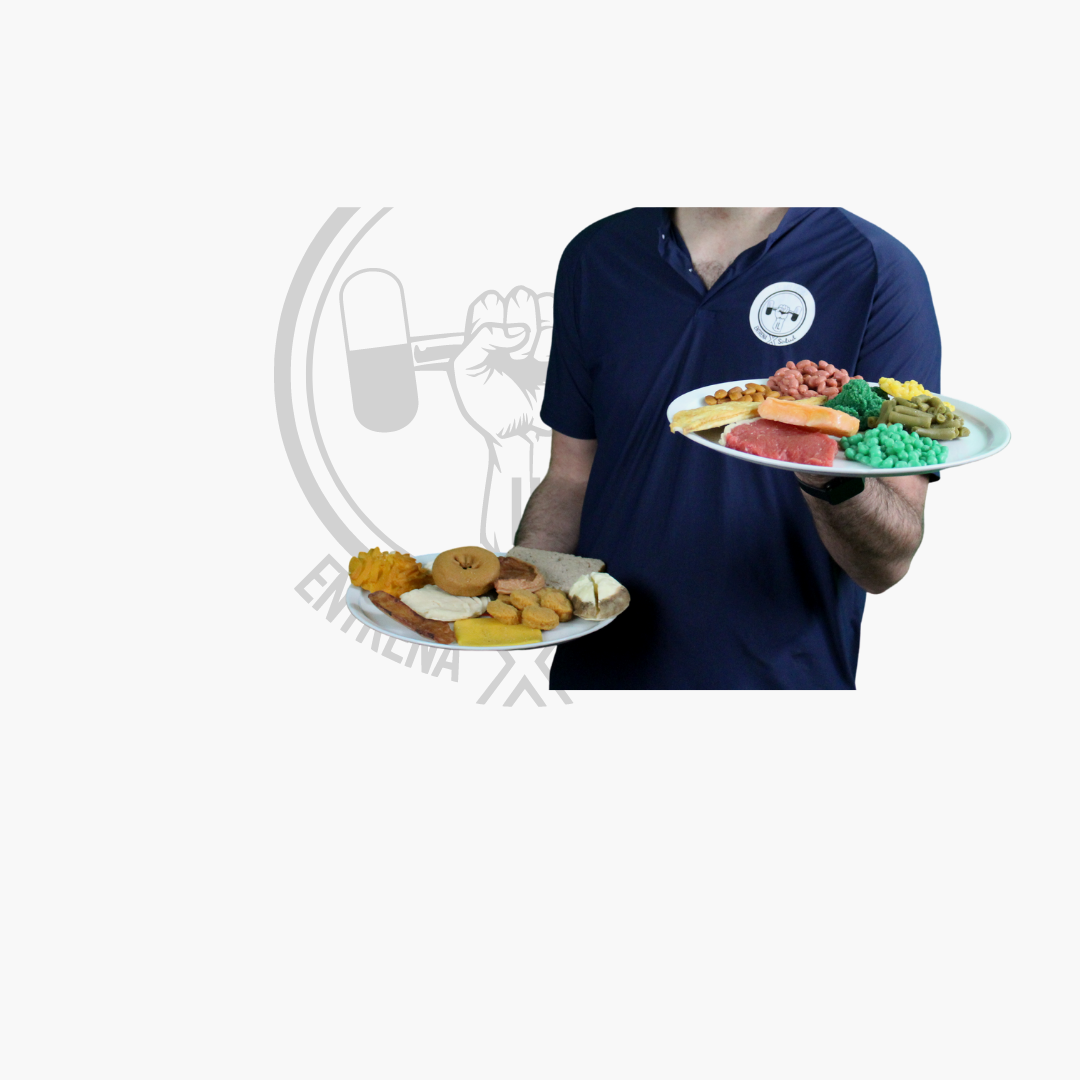
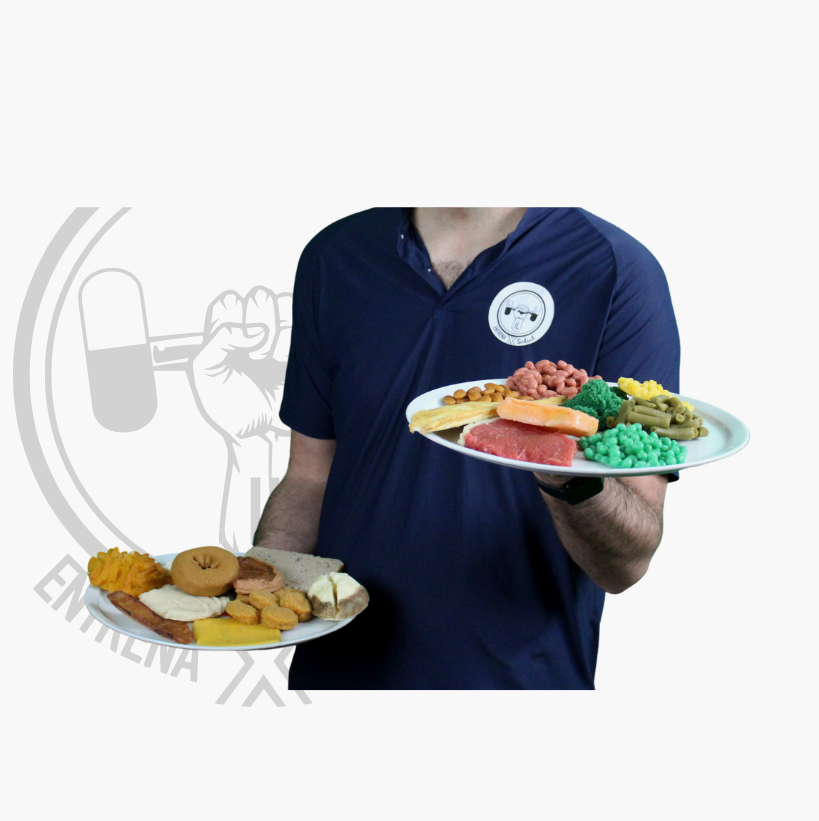
Fix images sizes from home screen

diff --git a/components/home/Individualization.jsx b/components/home/Individualization.jsx
@@ -8,7 +8,7 @@ function Individualization() {
     <StyledSection>
       <Col lg="6" sm="12" className="order-1 align-self-center">
         <Row className="text-center justify-content-center">
-          <Image src="/img/home/individualization.png" alt="Entrenamiento personal" width={1080} height={1080} />
+          <Image src="/img/home/individualization.png" alt="Entrenamiento personal" width={722} height={563} />
         </Row>
       </Col>
       <Col lg="6" sm="12" className="order-2 align-self-center">

diff --git a/components/home/Nutrition.jsx b/components/home/Nutrition.jsx
@@ -8,7 +8,7 @@ function Nutrition() {
     <StyledSection className="flex-row-reverse">
       <Col lg="6" sm="12" className="order-1 align-self-center">
         <Row className="text-center justify-content-center">
-          <Image src="/img/home/nutrition.png" alt="Nutrición" width={1080} height={1080} />
+          <Image src="/img/home/nutrition.png" alt="Nutrición" width={819} height={821} />
         </Row>
       </Col>
       <Col lg="6" sm="12" className="order-2 align-self-center">

diff --git a/components/home/Presentation.jsx b/components/home/Presentation.jsx
@@ -31,7 +31,7 @@ function Presentation() {
       </Col>
       <Col lg="12" sm="12" className="align-self-center">
         <Row className="text-center justify-content-center">
-          <Image src="/img/home/presentation.png" alt="Quiénes somos" width={1080} height={1080} />
+          <Image src="/img/home/presentation.png" alt="Quiénes somos" width={1080} height={427} />
         </Row>
       </Col>
     </StyledPresentation>
